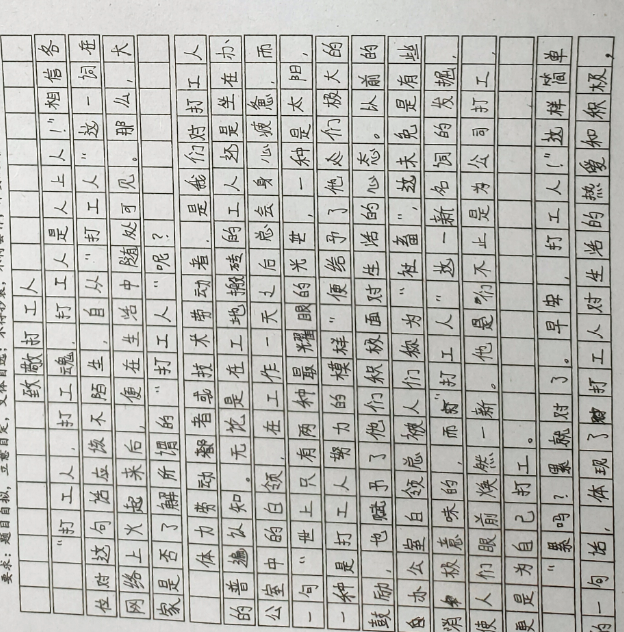
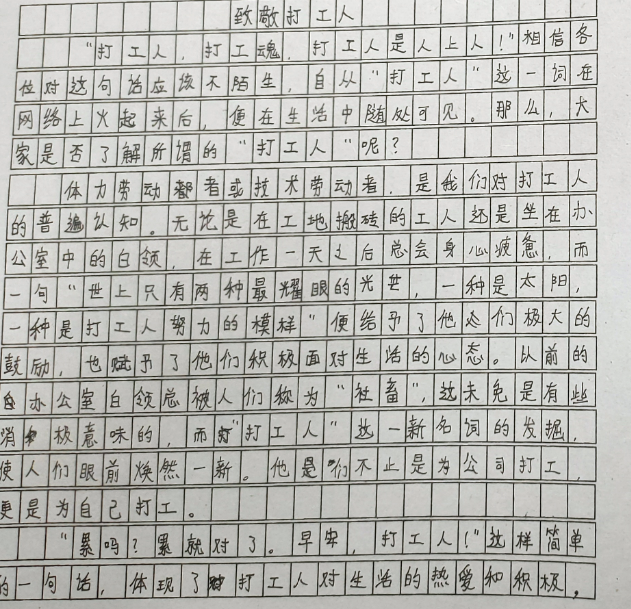
加入段评，标题，错误个数

diff --git a/app.py b/app.py
@@ -22,45 +22,55 @@ def hello_world():
 # ---------------------------------------------------------------
 @app.route('/photo', methods=['POST'])
 def get_photo():
-    # -----------------参数待定-----------------------
-    # 接收参数username
-    username = request.values.get('username')
-    # 接收参数page
-    page = request.values.get('page')
-    print(username)
-    print(page)
-    # request.
-    # -----------------------------------------------------
-    # 接收图片文件
-    upload_file = request.files['file']
-    # print(type(upload_file.stream.read()))  ##<class 'bytes'>
-    # 获取图片名
-    file_name = upload_file.filename.encode('utf-8').decode('unicode_escape')
-    # 文件保存目录（桌面）
-    # file_path = r'C:/Users/Administrator/Desktop/flask/'
-    if upload_file:
-        # -----------------------测试部分-----------------------
-        # 地址拼接
-        # file_paths = os.path.join(file_path, file_name)
-        # 保存接收的图片到桌面
-        # upload_file.save(file_paths)
-        # 随便打开一张其他图片作为结果返回，
+    try:
+        # -----------------参数待定-----------------------
+        # 接收参数username
+        username = request.values.get('username')
+        # 接收参数page
+        page = request.values.get('page')
+        # print(username)
+        # print(page)
+        # request.
         # -----------------------------------------------------
-        # ----------------------- 调用模型-----------------------
-        bytes_img = upload_file.stream.read()
-        text = ocr_api.call_api(bytes_img)
-        text.encode('utf-8').decode('unicode_escape')
-        correct = correct_api.call_api(text)
-        # -----------------------------------------------------
-        # ----------------------返回参数-----------------------
-        res = jsonify({
-            'file_name': file_name,
-            'username': username,
-            'page': page,
-            'text': text,
-            'correct': correct
+        # 接收图片文件
+        upload_file = request.files['file']
+        # print(type(upload_file.stream.read()))  ##<class 'bytes'>
+        # 获取图片名
+        file_name = upload_file.filename.encode('utf-8').decode('unicode_escape')
+        # 文件保存目录（桌面）
+        # file_path = r'C:/Users/Administrator/Desktop/flask/'
+        if upload_file:
+            # -----------------------测试部分-----------------------
+            # 地址拼接
+            # file_paths = os.path.join(file_path, file_name)
+            # 保存接收的图片到桌面
+            # upload_file.save(file_paths)
+            # 随便打开一张其他图片作为结果返回，
+            # -----------------------------------------------------
+            # ----------------------- 调用模型-----------------------
+            bytes_img = upload_file.stream.read()
+            text, title, section = ocr_api.call_api(bytes_img)
+            text.encode('utf-8').decode('unicode_escape')
+            correct, err_num = correct_api.call_api(text)
+
+            # -----------------------------------------------------
+            # ----------------------返回参数-----------------------
+            res = jsonify({
+                'file_name': file_name,
+                'username': username,
+                'page': page,
+                'text': text,
+                'correct': correct,
+                'title': title,
+                'section': section,
+                'err_num': err_num
+            })
+            return res
+    except:
+        return jsonify({
+            'error': "图片识别出错，请调整图片大小参数",
         })
-        return res
+
 
 
 ##############################################################################

diff --git a/script/ocr_api.py b/script/ocr_api.py
@@ -66,13 +66,28 @@ def call_api(imgfile):
     # print(type(text))
 
     text0 = ''
-    for i in text["data"]["block"][0]['line']:
+    for i in text["data"]["block"][0]['line'][1:]:
         # print(i['word'][0]["content"])
         text0 = text0 + i['word'][0]["content"]
     # print(text0)
-    return text0
+
+    title = text["data"]["block"][0]['line'][0]['word'][0]["content"]
+    section = []
+    text1 = ''
+    max_line = len(text["data"]["block"][0]['line'][1]['word'][0]["content"])
+    # print(max_line)
+    for i in text["data"]["block"][0]['line'][1:]:
+        text1 = text1 + i['word'][0]["content"]
+        # print(len(i['word'][0]["content"]))
+        if len(i['word'][0]["content"]) < max_line:
+            section.append(text1)
+            text1 = ''
+    return text0, title, section
 
 if __name__ == "__main__":
     with open("../23.png", 'rb') as f:
         imgfile = f.read()
-    call_api(imgfile)
+    text0, title, section = call_api(imgfile)
+    # print(text0)
+    # print("title:"+title)
+    # print(section)

diff --git a/script/correct_api.py b/script/correct_api.py
@@ -135,6 +135,7 @@ def call_api(text):
     for err_type in correct_text:   # 获取全部错误
         for err0 in correct_text[err_type]:
             err.append(err0)
+    err_num = len(err)
     err = sorted(err, key=lambda i: i[0], reverse=True)  # 以错误位置倒叙排序错误
     posde = 0
     for temp in err:
@@ -143,7 +144,7 @@ def call_api(text):
             Text2 = Text[int(temp[0]) + len(temp[1]):]
             Text = Text1 + temp[2] + Text2
             posde = int(temp[0])
-    return Text
+    return Text,err_num
 
 
 if __name__ == '__main__':

diff --git a/get_photo_test.py b/get_photo_test.py
@@ -11,7 +11,8 @@ from requests_toolbelt import MultipartEncoder
 # API地址
 url = "http://192.168.10.113:8888/photo"
 # 图片地址
-file_path = 'C:/Users/Administrator/Desktop/23.png'
+# file_path = 'C:/Users/Administrator/Desktop/23.png'
+file_path = 'C:/Users/Administrator/Desktop/1.jpg'
 # 图片名
 file_name = file_path.split('/')[-1]
 # 二进制打开图片
